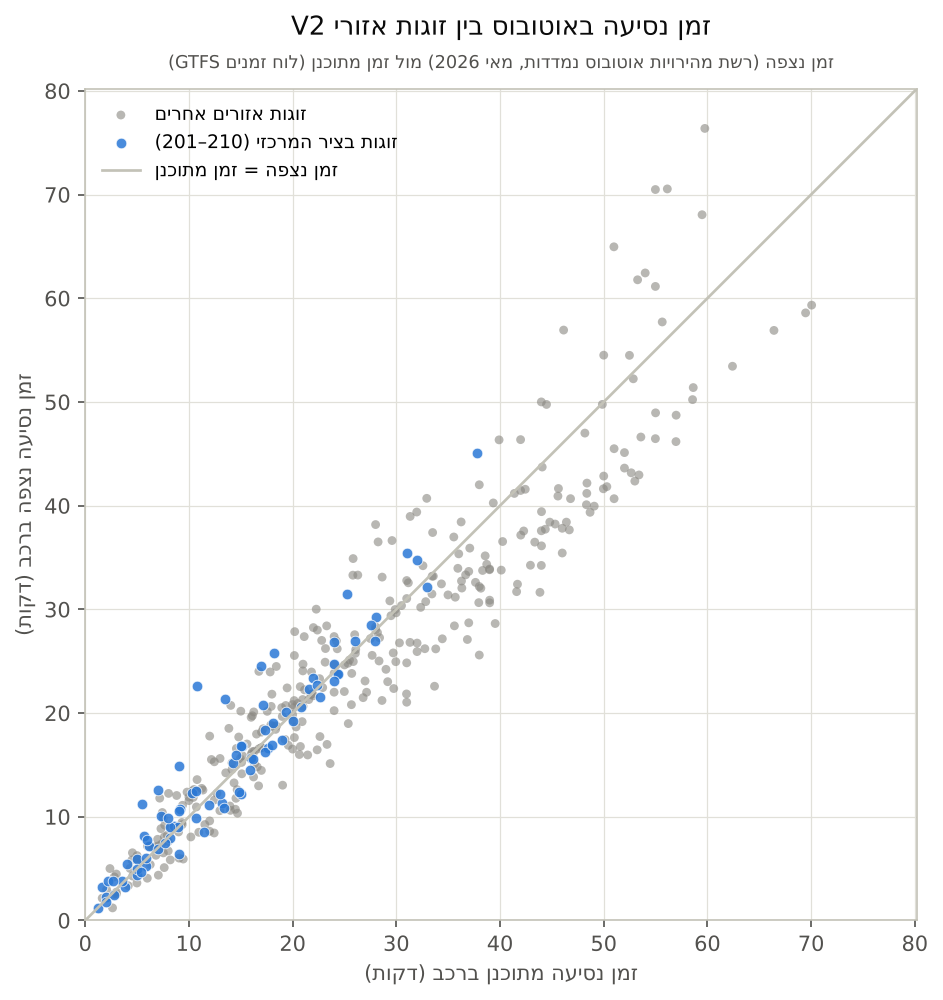
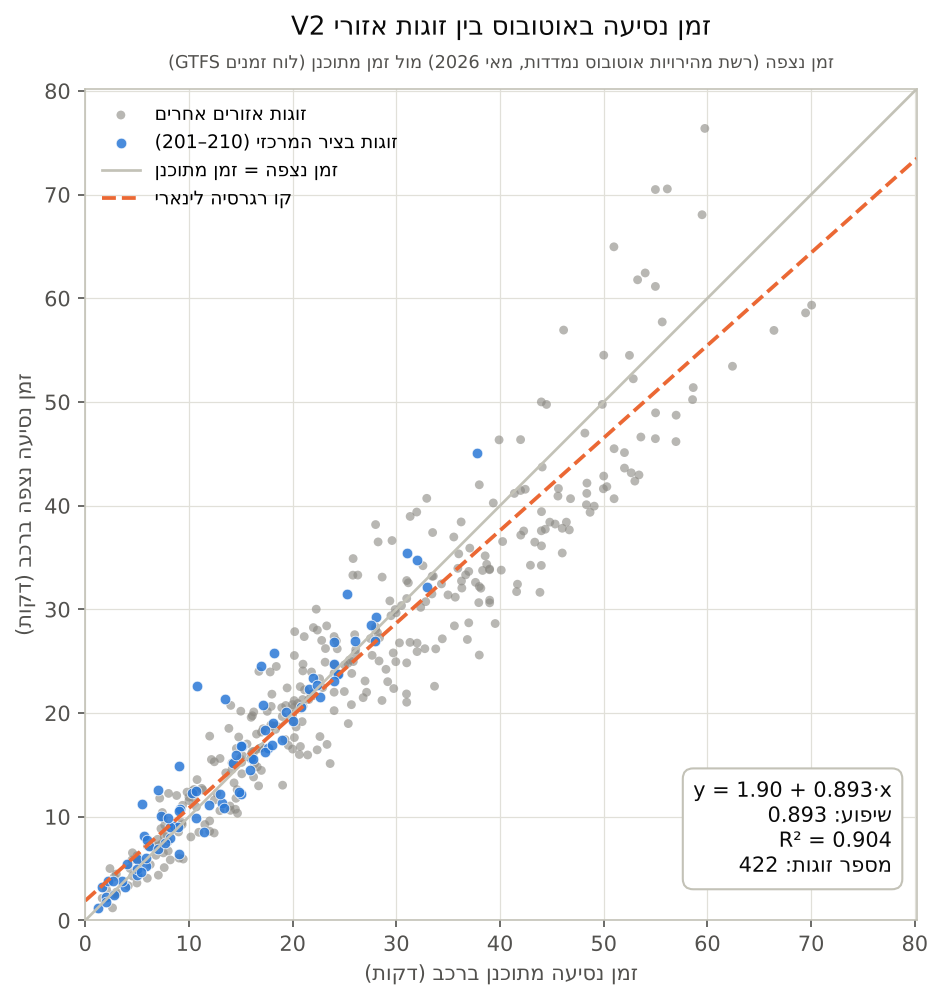
Add linear regression line with equation, slope and R2 to Hebrew figure 3.5 scatter
Claude-Session: https://claude.ai/code/session_01Aezn8uQ9h8Pdrijek1evD5

diff --git a/tools/make_fig_3_5_he.py b/tools/make_fig_3_5_he.py
@@ -22,6 +22,12 @@ ax.scatter(skim.loc[trunk, 'bus_ivt_scheduled_min'], skim.loc[trunk, 'bus_ivt_ob
            label=f'זוגות בציר המרכזי ({LRI}201–210{PDI})')
 lim = float(np.nanmax([skim.bus_ivt_scheduled_min.max(), skim.bus_ivt_observed_min.max()])) * 1.05
 ax.plot([0, lim], [0, lim], color=AXIS, lw=1.3, label='זמן נצפה = זמן מתוכנן')
+ok = skim[['bus_ivt_scheduled_min', 'bus_ivt_observed_min']].dropna()                       # OLS on all area pairs: observed = a + b x scheduled
+b1, a0 = np.polyfit(ok.bus_ivt_scheduled_min, ok.bus_ivt_observed_min, 1); r2 = np.corrcoef(ok.bus_ivt_scheduled_min, ok.bus_ivt_observed_min)[0, 1] ** 2
+xx = np.array([0, lim]); ax.plot(xx, a0 + b1 * xx, color=ORANGE, lw=1.8, ls='--', label='קו רגרסיה לינארי')
+ax.text(0.97, 0.05, f'{LRI}y = {a0:.2f} + {b1:.3f}·x{PDI}\nשיפוע: {LRI}{b1:.3f}{PDI}\n{LRI}R² = {r2:.3f}{PDI}\nמספר זוגות: {LRI}{len(ok)}{PDI}', transform=ax.transAxes, ha='right', va='bottom',
+        fontsize=10, color=INK, bbox=dict(boxstyle='round,pad=0.5', facecolor='white', edgecolor=AXIS))
+print('regression', a0, b1, r2, len(ok))
 ax.set_xlim(0, lim); ax.set_ylim(0, lim); ax.set_aspect('equal')
 ax.set_xlabel('זמן נסיעה מתוכנן ברכב (דקות)', color=INK2, fontsize=10); ax.set_ylabel('זמן נסיעה נצפה ברכב (דקות)', color=INK2, fontsize=10)
 ax.set_title('זמן נסיעה באוטובוס בין זוגות אזורי V2', color=INK, fontsize=12.5, pad=26)
